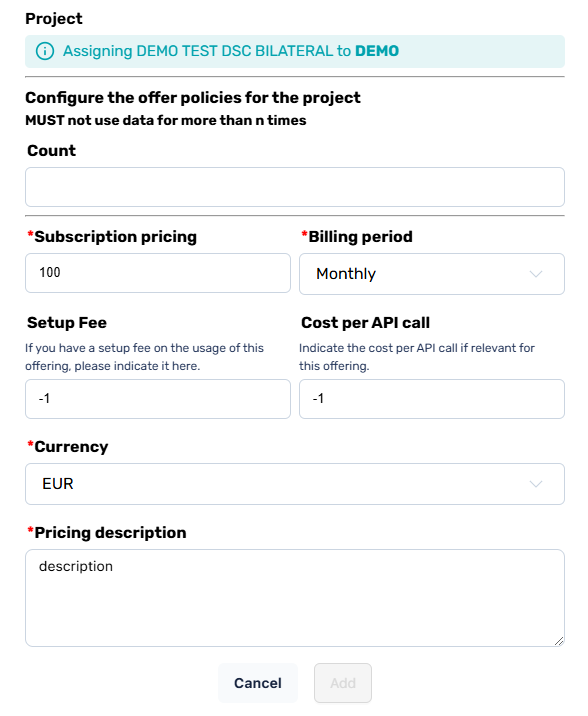
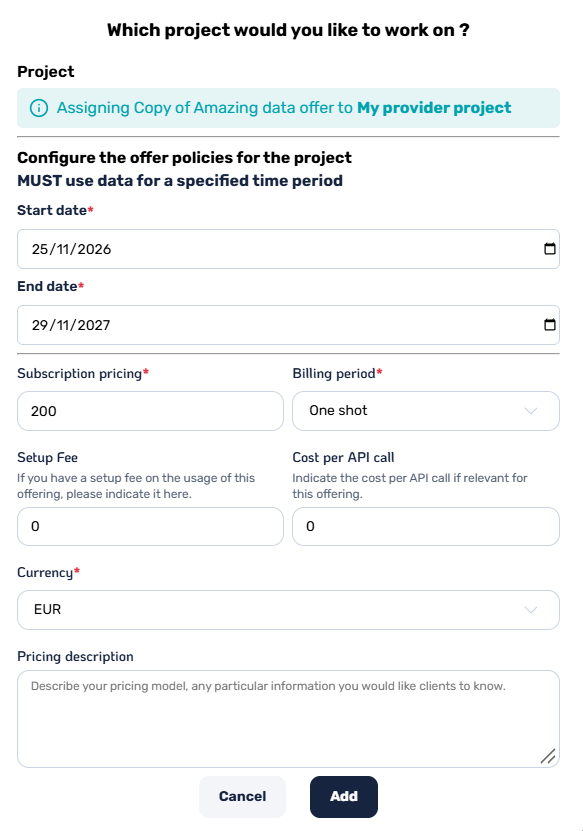
docs: link invitations and join requests in the Project page

diff --git a/docs/application/projects/project-settings.md b/docs/application/projects/project-settings.md
@@ -45,7 +45,7 @@ A published project:
 - Can invite offers / participants to join it
 - Can receive join requests from participants that want to join
 
-Once your project is published, participants can join it, either because you invited their offers or because they sent a join request. They are then listed in the "Participants" page of the project, with their role and their contributions. To follow the negotiations of your project, open the "Negotiations" page: see [Follow your negotiations](../negotiation/following-negotiations.md). A participant can also withdraw one of its offers: see [Exit requests](./exit-requests.md).
+Once your project is published, participants can join it, either because you [invited their offers](../negotiation/invitations.md) or because they [sent a join request](../negotiation/join-requests.md). They are then listed in the "Participants" page of the project, with their role and their contributions. To follow the negotiations of your project, open the "Negotiations" page: see [Follow your negotiations](../negotiation/following-negotiations.md). A participant can also withdraw one of its offers: see [Exit requests](./exit-requests.md).
 
 ## Project Subscription
 
